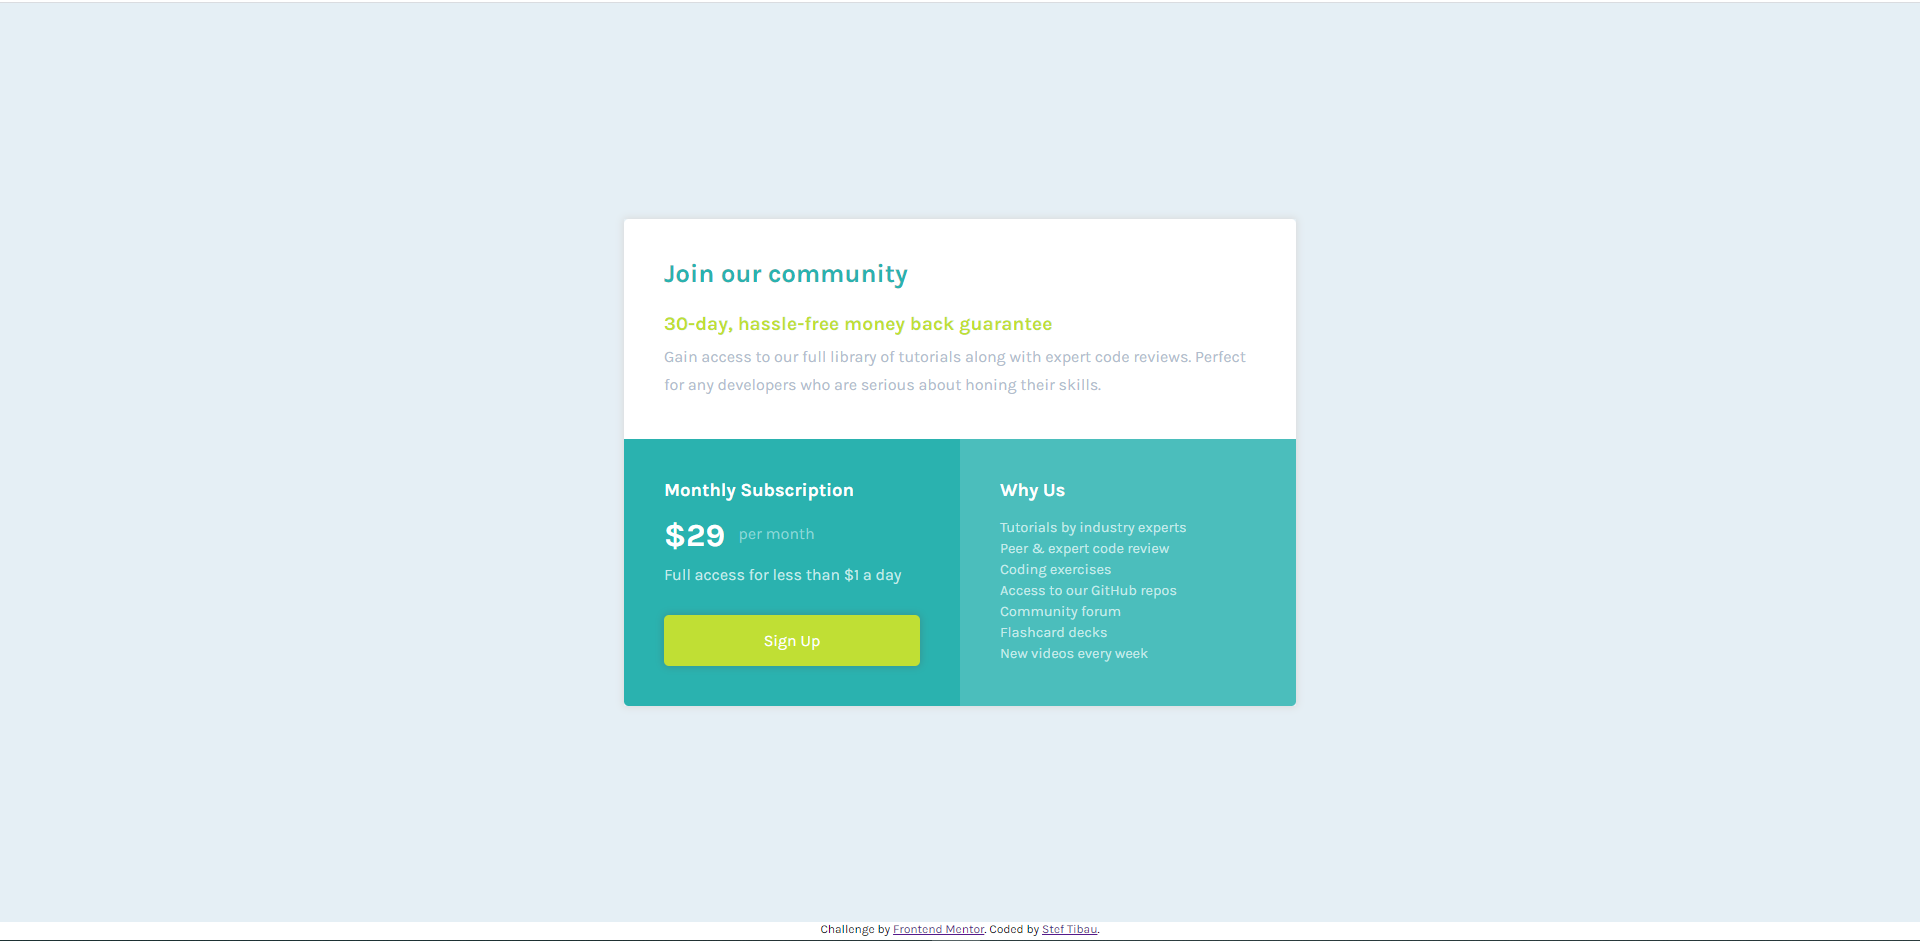
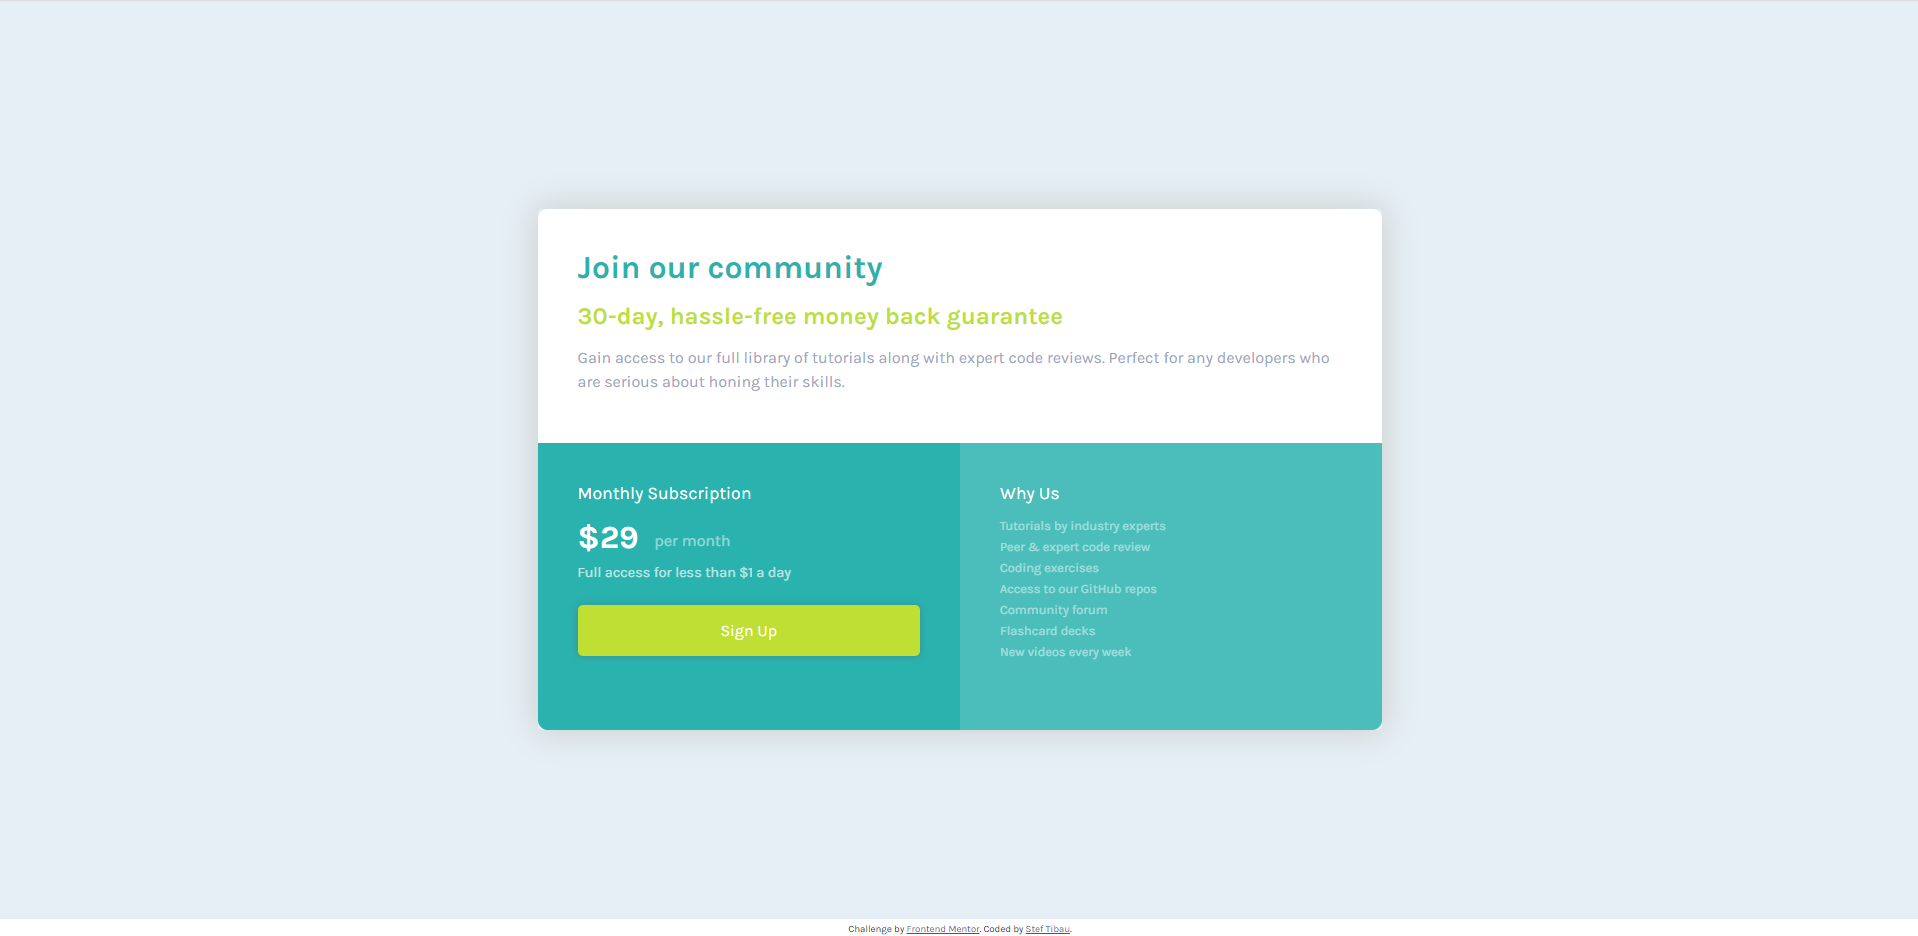
Revised using grid

Changed region(s): [[0.2769, 0.2169, 0.7383, 0.8056], [0.0, 0.9605, 1.0, 1.0]]

diff --git a/css/styles.css b/css/styles.css
@@ -1,7 +1,9 @@
-/* Ssome global variables */
+/* some global variables */
+
 :root{
     --white: hsl(0, 0%, 100%);
     --bright-yellow: hsl(71, 73%, 54%);
+    --less-bright-yellow: hsl(71, 87%, 44%);
     --cyan: hsl(179, 62%, 43%);
     --light-gray:hsl(204, 43%, 93%);
     --light-cyan:hsl(179, 47%, 52%); 
@@ -11,7 +13,7 @@
     --darker-cyan: hsl(179, 47%, 40%);
 }
 
-/* Global elements: set some global parameter values */
+/* global elements: set some global parameter values */
 
 *{
     margin: 0;
@@ -24,7 +26,7 @@ html{
     height: 100%;
 }
 
-/*The body element is a grid that is composed of the main element and a footer.  */
+/* the body element is a grid that is composed of the main element and a footer.  */
 
 body{
     height: 100%;
@@ -34,21 +36,24 @@ body{
     grid-template-rows: 8.5fr 83fr 6.5fr 2fr;
 }
 
-/* main is a grid into which we fit each of the three divs that make up the single price component. */
-/* These are sections intro, price and why */
+/* main is a grid into which each of the three sections (intro, price and why) 
+that make up the single price component are fitted. */
 
 main{
     grid-column: 2;
     grid-row: 2;
     display: grid;
     grid-template-rows: 37fr 31.5fr 31.5fr;
+    box-shadow: 0 0 2rem 0.05rem hsl(0, 0%, 80%);
+    border-radius: 0.3rem;
 }
 
 /* intro styling */
 
 .intro{
     background-color: var(--white);
-    padding: 1.4rem 1.4rem;
+    padding: 1.4rem;
+    border-radius: 10px 10px 0 0;
 }
 
 .intro > h1 {
@@ -77,22 +82,22 @@ main{
 .price {
     background-color: var(--cyan);
     color: var(--white);
-    padding: 1.4rem 1.4rem;
+    padding: 1.4rem;
 }
 
 .price > h1 {
     font-size: 1.1rem;
     font-weight: 400;
-    margin-bottom: 0.5rem;
+    margin-bottom: 1rem;
 }
 
 .pricing1 {
-    font-size:2rem;
+    font-size: 2rem;
     font-weight: 700;  
     vertical-align: middle; 
     background-color: var(--cyan);
     color: var(--white);    
-    margin-bottom: 0.2rem;
+    margin-bottom: 0.5rem;
 }
 
 .pricing1 > span {
@@ -104,11 +109,11 @@ main{
 }
 
 .pricing2 {
-    font-size: 1rem;
+    font-size: 0.9rem;
     font-weight: 400;
     color: var(--white);
     opacity: 0.7;
-    margin-bottom: 1.25rem;
+    margin-bottom: 1.5rem;
 }
 
 .price > button {    
@@ -130,8 +135,9 @@ main{
 .why {
     background-color: var(--light-cyan);
     color: var(--white);
-    padding: 1.4rem 1.4rem;  
-} 
+    padding: 1.4rem;  
+    border-radius: 0 0 10px 10px;
+}
 
 .why > h1 {
     font-size: 1.1rem;
@@ -149,7 +155,7 @@ main{
     font-size: 0.8rem;
 }
 
-/* Footer styles: footer is a flexbox: this makes it easier to center its content both horizontally and vertically */
+/* footer styles: footer is a flexbox: this makes it easier to center its content both horizontally and vertically */
 
 footer{
     grid-column: 1 / span 3;
@@ -161,90 +167,68 @@ footer{
 }
 
 .attribution{
-    font-size: 0.7rem;
+    font-size: 0.6rem;
 }
 
 .attribution a {
+    font-size: 0.6rem;
     color: var(--blueish-gray);
 } 
 
+/* desktop styling */
 
+@media screen and (min-width: 600px) {
+    /* the body has 4 rows, the lower of which is the footer, and the second of contains the main content */
 
-/* body{
-    height: 100%;
-    background-color: hsl(204, 43%, 93%);
-    display: grid;
-    grid-template-columns: 28fr 44fr 28fr;
-    grid-template-rows: 20.15fr 55.7fr 20.15fr 4fr;
-} */
+    body {
+        grid-template-columns: 28fr 44fr 28fr;
+        grid-template-rows: 22.15fr 55.7fr 20.15fr 2fr;
+    }
 
-/* Main styles: main is a grid into which we fit each of the three divs that make up the single price component. */
-/* those are divs intro, price and why */
+    /* the main content is a 4 by 4 grid with two equally sized columns, and whose upper row is a bit smaller then the lower one */
 
-/* main{
-    grid-column: 2;
-    grid-row: 2;
-    display: grid;
-    grid-template-columns: 50fr 50fr;
-    grid-template-rows: 45fr 55fr;
-} */
+    main {
+        grid-template-columns: 50fr 50fr;
+        grid-template-rows: 45fr 55fr;
+    }
 
-/* intro styling */
+    .intro {
+        grid-column: 1 / span 2;
+        padding: 2.5rem;
+        border-radius: 10px 10px 0 0;
+    }
 
-/* .intro{
-    grid-column: 1 / span 2;
-    background-color: hsl(0, 0%, 100%);
-} */
+    .intro > h1 {
+        font-size: 2rem;
+    }
 
-/* .intro > h1 {
-    font-size: 1.2rem;
-    font-weight: 700;
-    color: hsl(179, 62%, 43%);
-} */
+    .intro > h2 {
+        font-size: 1.5rem;
+    }
 
-/* .intro > h2 {
-    font-size: 0.9rem;
-    font-weight: 700;
-    color: hsl(71, 73%, 54%);
-    margin: 1.5rem 0;
-} */
+    .intro > p {
+        font-size: 1rem;
+    }
 
-/* .intro > p {
-    font-size: 0.85rem;
-    font-weight: 400;
-    color: hsl(218, 22%, 75%);
-    line-height: 1.75;
-} */
+    .price {
+        grid-column: 1;
+        grid-row: 2;
+        padding: 2.5rem;
+        border-radius: 0 0 0 10px;
+    }
 
-/* price Styling */
+    .price button:hover{
+        background: var(--less-bright-yellow);
+    }
 
-/* .price{
-    grid-column: 1;
-    grid-row: 2;
-    background-color: hsl(179, 62%, 43%);
-} */
+    .why {
+        grid-column: 2;
+        grid-row: 2;
+        padding: 2.5rem;
+        border-radius: 0 0 10px 0;
+    }
 
-/* .why{
-    grid-column: 2;
-    grid-row: 2;
-    background-color: hsl(179, 47%, 52%);
-} */
-
-/* Footer styles: footer cons */
-
-/* footer{
-    grid-column: 1 / span 3;
-    grid-row: 5;
-    background-color: hsl(0,0%,100%);
-    display:flex;
-    justify-content: center;
-    align-items: center;
-} */
-
-/* .attribution{
-    font-size: 0.7rem;
+    .why > ul {
+        line-height: 1.35rem;
+     }
 }
-
-.attribution a {
-    color: hsl(228, 45%, 44%);
-} */

diff --git a/README.md b/README.md
@@ -28,7 +28,7 @@ Deskop Layout
 
 ![](./Solution_desktop.png)
 
-M%obile Layout
+Mobile Layout
 
 ![](./Solution_mobile.png)
 
